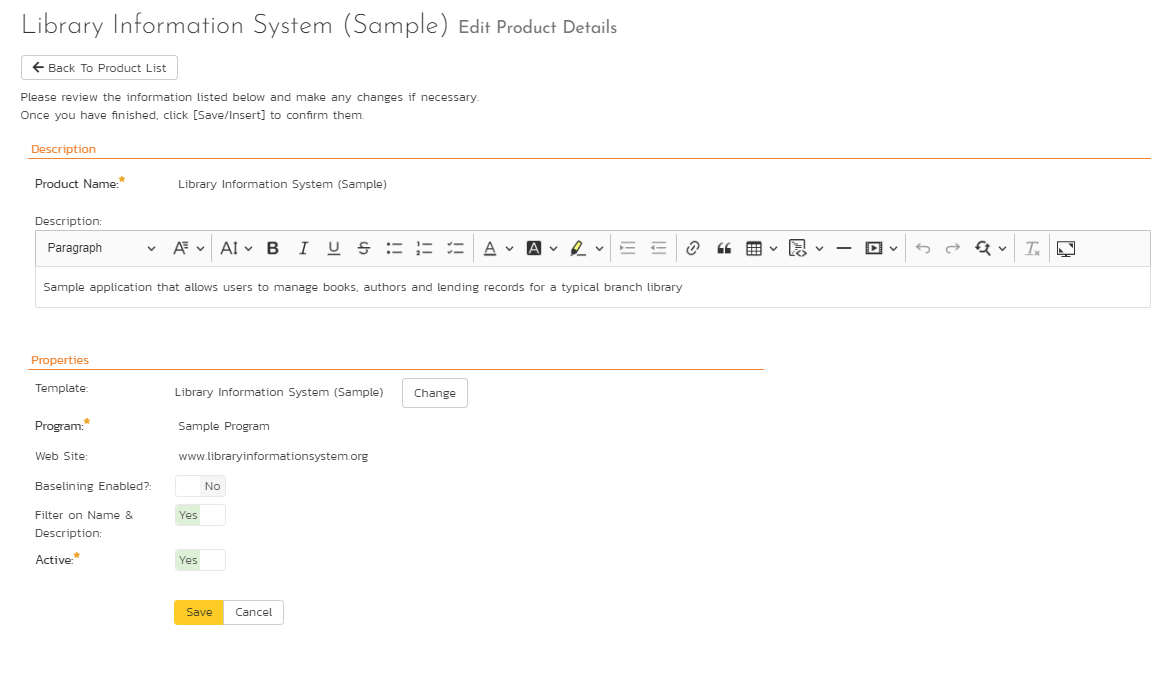
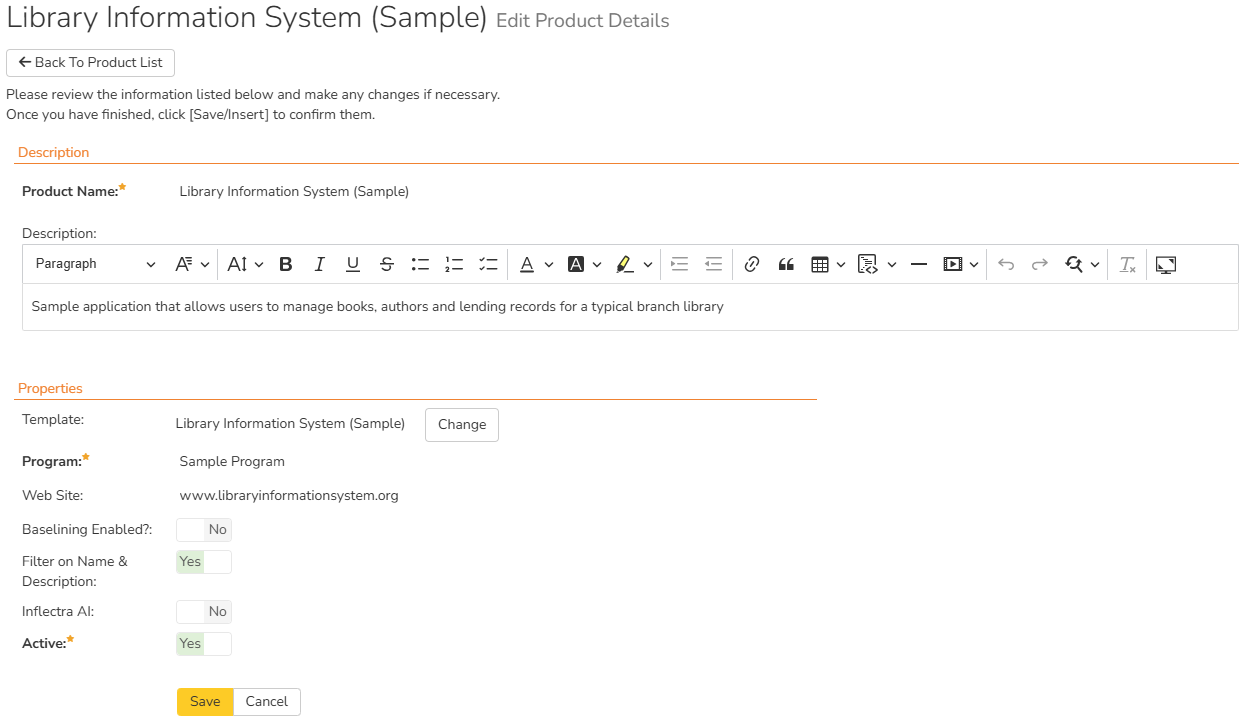
Update product add/edit screenshots to include Inflectra AI

diff --git a/docs/Spira-Administration-Guide/System-Workspaces.md b/docs/Spira-Administration-Guide/System-Workspaces.md
@@ -88,7 +88,7 @@ You need to:
 - select a template that will control the product. If you are creating an empty product (not based on an existing one) you can select any template in the system to use for this product, or you can start with a brand new template. If you are creating a product based on an existing one, then by default the template will be the same as the one the existing product uses. You can still create a new template in this case, which will effectively be a clone of the template the existing product uses.
 - decide whether the product should have baselining enabled or not. Read more about baselining [here](../Spira-User-Manual/Release-Management.md/#baselining) <span class="pill">SpiraTeam</span> <span class="pill">SpiraPlan</span>
 - you should initially make sure that the product is marked as "Active";
-- if available, you can disable Inflectra AI for this product if not approved for this product but has been purchased
+- if available, you can disable Inflectra AI for this product <span class="pill" title="Inflectra AI settings are only available in the cloud, after purchasing the add-on">Inflectra AI</span>
 
 
 Once you are satisfied with the information, click the "Insert" button to actually create the new product.
@@ -108,7 +108,7 @@ On this screen you can:
 - enable/disable [baselining](../Spira-User-Manual/Release-Management.md/#baselining) <span class="pill">SpiraTeam</span> <span class="pill">SpiraPlan</span>
 - toggle if searching on a list page should filter on both name and description fields, or just the name field (default is name and description). For very large lists of products, searching by description may result in slower performance. If that is the case, toggle this option to reduce the search range and potentially improve performance. 
 - toggle the active status
-- toggle Inflectra AI <span class="pill">Inflectra AI</span>
+- toggle Inflectra AI <span class="pill" title="Inflectra AI settings are only available in the cloud, after purchasing the add-on">Inflectra AI</span>
 
 Once you have made the necessary changes, click the "Save" button to commit them. If you decide that you want to ignore the changes, click the "Cancel" button and the changes will be discarded.
 
